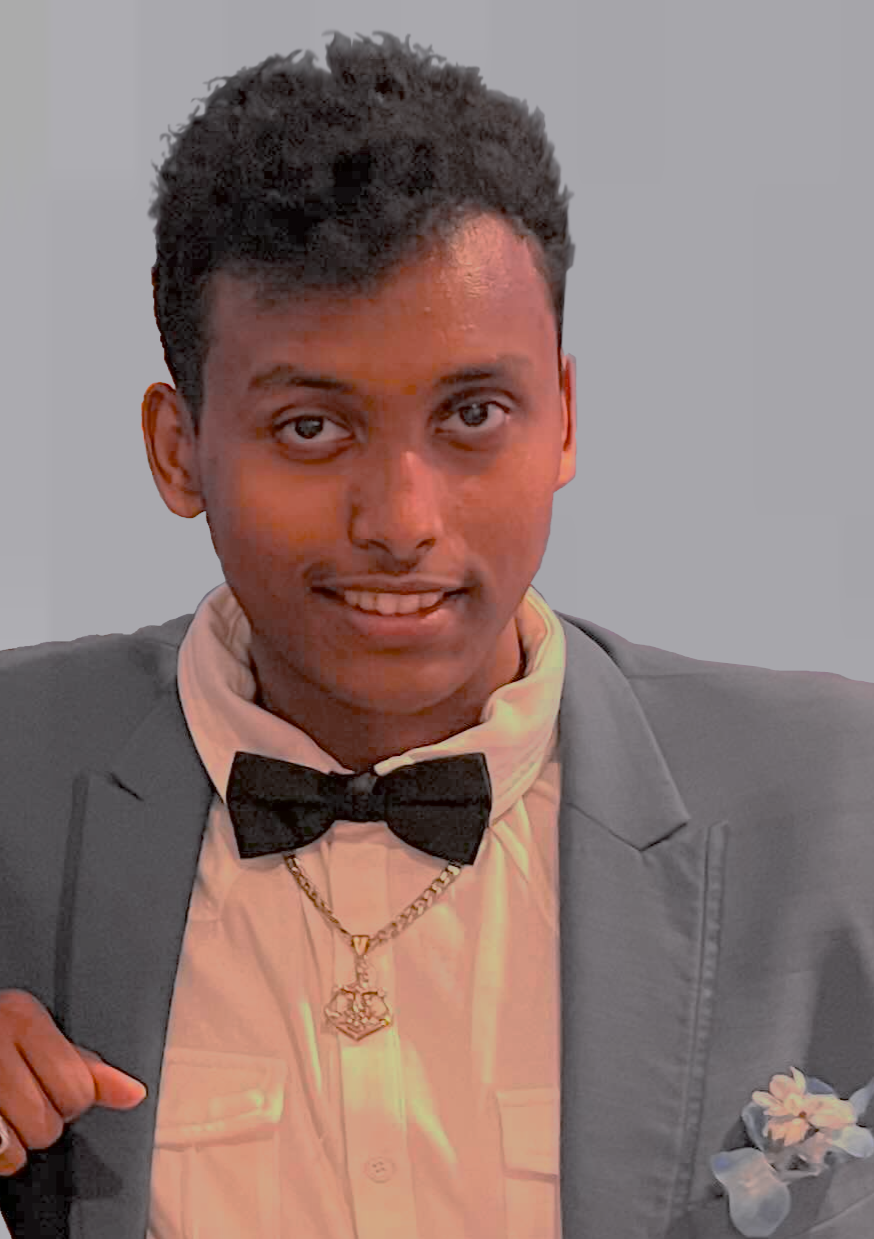
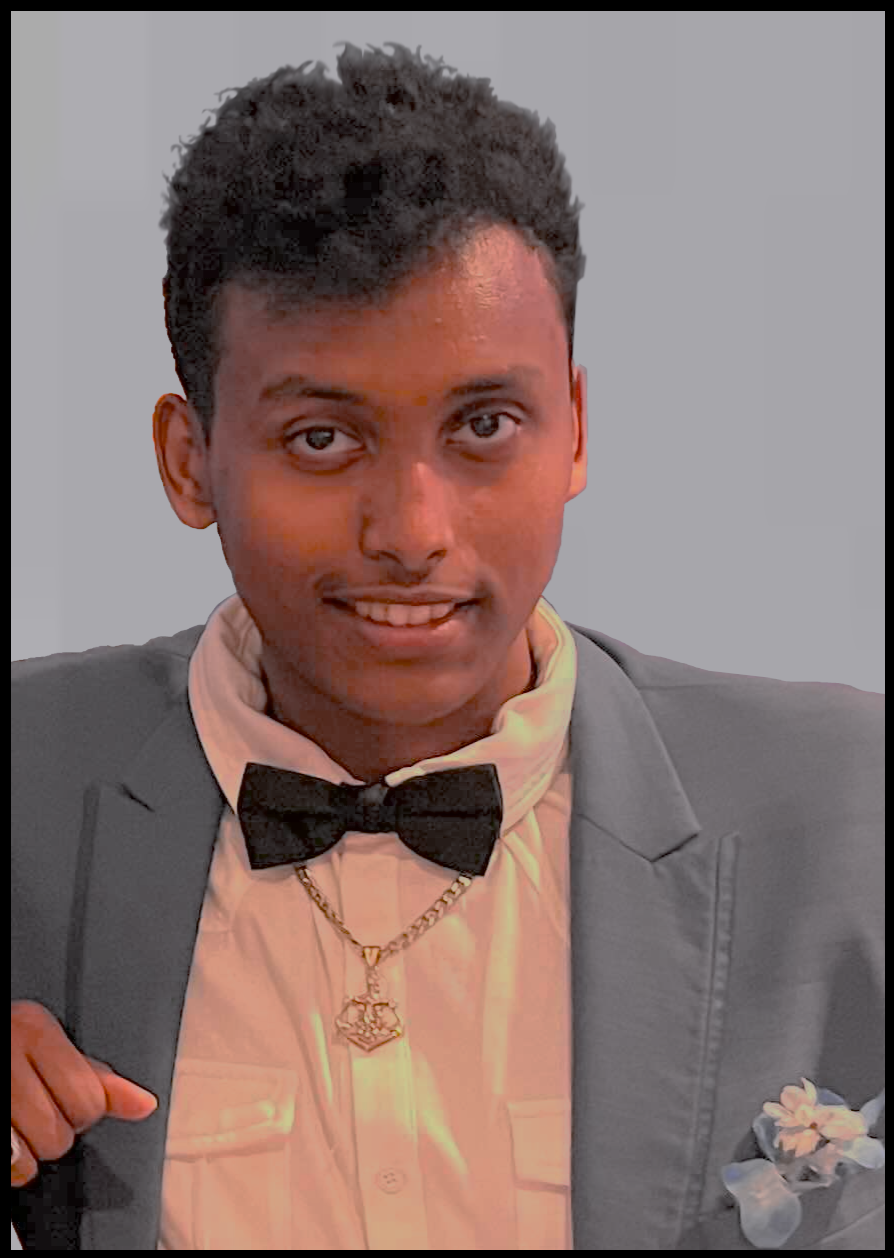
improvement

diff --git a/index.html b/index.html
@@ -15,23 +15,27 @@
             <li data-tab-target="#educational-background" class="tab">Education Background</li>
         </ul>
         <div class="tab-content">
-        
+            
             <div id="home" data-tab-content class="active">
                 
-                <div class="row">
-                    <div class="column">
-                        <h1>Home</h1>
-                        <p>My name is Genova Mongalo, I am currently pursuing a bachelor's degree in Computer Science from the University of Missouri: Kansas City. I expect to graduate in the fall semester of 2024.
-                             The majority of my experience has come from undergraduate research internships, but I am open to other jobs.</p>
-                    </div>
-                    <div class="column">
-                        <img class="image" src="image/ProfessionalPicture1.png">
-                    </div>
-                </div>
+                <h1 style="text-align: center;">Home</h1>
+                <style>
+                    div{
+                        border-radius: 50px 5px;
+                        background: rgb(187, 73, 73);
+                        padding: 20px;
+                        width: auto;
+                        height: auto;
+                    }
+                </style>
+                <p style="text-align: center; border-radius: 15px; background: rgba(0, 0, 0, 0.519); padding: 20px; width: auto; height: auto;">My name is Genova Mongalo, I am currently pursuing a bachelor's degree in Computer Science from the University of Missouri: Kansas City. I expect to graduate in the fall semester of 2024.
+                        The majority of my experience has come from undergraduate research internships, but I am open to other jobs.</p>
+                <img class="image; center" src="image/ProfessionalPicture1.png" style="border-radius: 15px; 
+                border: 20px solid rgba(0, 0, 0, 0.519); width: 20%; height: 20%;">
             </div>
             <div id="resume" data-tab-content>
                 <h1>Resume</h1>
-                <p>
+                <p style="text-align: center;">
                     <embed src="files/Resume.pdf" width="800px" height="2100px" />
                 </p>
             </div>

diff --git a/styles.css b/styles.css
@@ -35,20 +35,16 @@
 }
 
 .image { 
+    margin-top: 30px;
     width: 300px; 
     height: auto; 
-    border: 5px solid black; 
 } 
 
-.column {
-    float: left;
+.center {
+    display: block;
+    margin-left: auto;
+    margin-right: auto;
     width: 50%;
-  }
-  
-  .row:after {
-    content: "";
-    display: table;
-    clear: both;
   }
 
   .icon {
